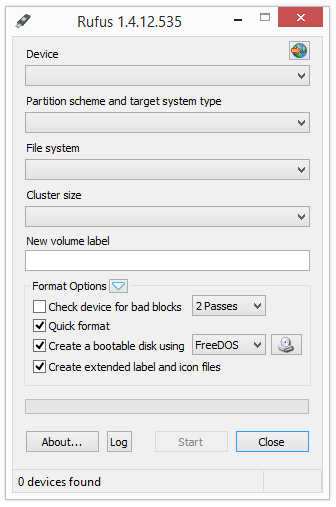
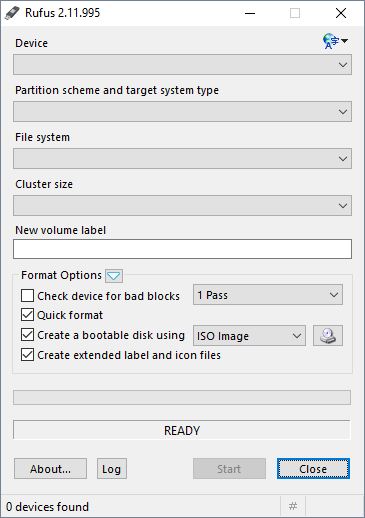
Windows: Use Rufus to check hash (#1361) (#1439)
* Windows: Use Rufus to check hash (#1361)

> As Rufus is needed anyway to create the installation medium this allows users to use one program less and makes the whole process easier...

I'm not sure yet my text is the best way to streamline the installation instructions, but maybe it can serve as a basis for discussion. 

Issues:
* Less emphasis on verifying being optional, which I believe is a good thing. With verifying being so easy it shouldn't be called optional anymore. (In my opinion instructions for Linux and macOS should follow suit.) 
* #verify-your-download is removed as a distinct section, otherwise there would be quite a lot of redudancy. (And is the section really needed if we use only one program?) 
* There is no screenshot showing the computed hashes. (But is it really needed? Especially because a screenshoted different hash could confuse users.)

* Windows: Move heading, update Rufus screenshots

Following the request by @danrabbit
* Move heading to the top of section
* Update Rufus screenshots / images
* Also, add screenshot of computed hash

Changed region(s): [[0.0, 0.0, 1.0, 1.0]]

diff --git a/docs/installation.md b/docs/installation.md
@@ -44,36 +44,24 @@ Select the operating system you are currently using to view tailored installatio
 
 <div id="install-on-windows" class="slide" markdown="1">
 
-## Verify your Download {#verify-your-download}
-
-Verifying your download is an important, but optional step. We generate a checksum (or hash sum) for elementary OS images and we recommend that you verify that your download matches that checksum before trying to install. This ensures that you've received the full, complete download and that your install image is not corrupted in any way.
-
-Windows doesn't include a built-in tool to verify SHA256 Checksums, so you're going to need to download <a href="http://www.digitalvolcano.co.uk/hash.html">Hash Tool</a>.
-
-![Hash Tool](images/docs/installation/hash-tool.png)
-
-1. Open Hash Tool
-2. Under "Hash Type" select `SHA-256`
-3. Under "Input File" select `Select File(s)` and find the elementary OS ISO file
-4. Verify that the text in "Results" matches the following hash:
-
-```bash nohighlight
[1 lines of base64/hex data omitted]
-```
-
 ## Creating an Install Drive {#creating-an-installation-medium .clear-float}
-
-![Rufus - select ISO](images/docs/installation/rufus_select_iso.png) {.float-left}
 
 You'll need a USB flash drive with at least 2 GB of free space and a program called Rufus.
 
 <a href="https://rufus.akeo.ie/" class="button suggested-action">Download Rufus</a>
 
+![Rufus - select ISO](images/docs/installation/rufus_select_iso.png) {.float-left}
+
 1. Open Rufus
 2. Insert your USB drive and select it in the "Device" list
 3. Select "ISO Image" next to "Create a bootable disk using..."
 4. Click ![the disk icon](images/docs/installation/rufus_disk_icon.png) {.inline} to choose the ISO that you downloaded previously.
-5. Click "Start" and wait for the process to finish.
+5. We generate a checksum (or hash sum) for elementary OS images so you can verify your downloaded file. This ensures that you've received the full, complete download and that your install image is not corrupted in any way. Click the `#` button in the status bar and verify that the text next to "SHA256" matches the following hash:
+```bash nohighlight
[1 lines of base64/hex data omitted]
+```
+
+6. If the hashes match, click "Start" and wait for the process to finish.
 
 ## Booting from the Install Drive {#booting-from-the-installation-medium .clear-float}
 
